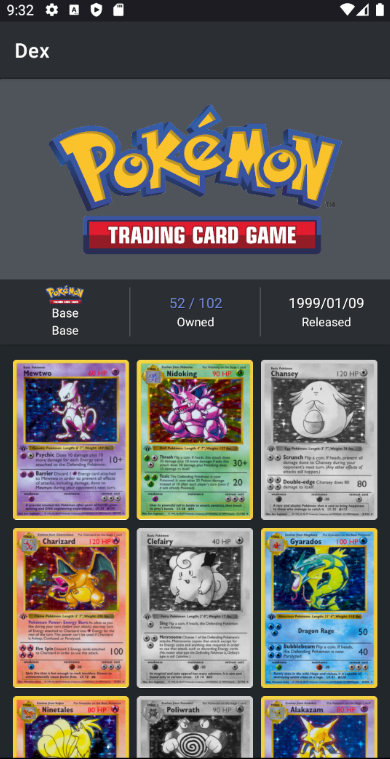
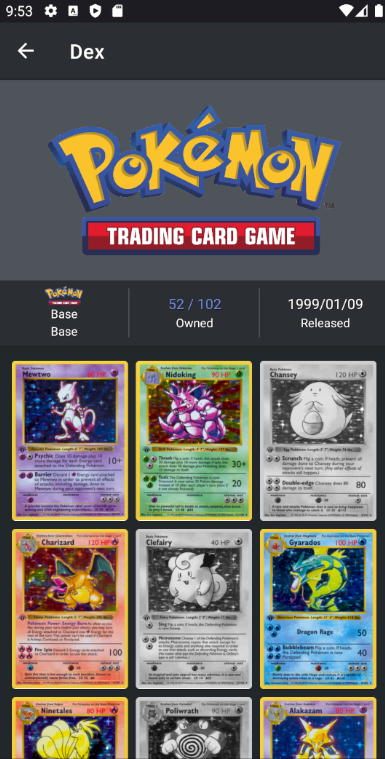
Added backward navigation button

diff --git a/app/src/main/java/android/example/dex/ui/activities/CardDetailActivity.java b/app/src/main/java/android/example/dex/ui/activities/CardDetailActivity.java
@@ -1,7 +1,9 @@
 package android.example.dex.ui.activities;
 
+import androidx.annotation.NonNull;
 import androidx.appcompat.app.AppCompatActivity;
 import androidx.cardview.widget.CardView;
+import androidx.core.app.NavUtils;
 import androidx.lifecycle.LiveData;
 
 import android.content.Intent;
@@ -15,6 +17,7 @@ import android.example.dex.viewmodel.WishViewModel;
 import android.net.Uri;
 import android.os.Bundle;
 import android.util.Log;
+import android.view.MenuItem;
 import android.view.View;
 import android.widget.Button;
 import android.widget.ImageButton;
@@ -55,6 +58,8 @@ public class CardDetailActivity extends AppCompatActivity {
     protected void onCreate(Bundle savedInstanceState) {
         super.onCreate(savedInstanceState);
         setContentView(R.layout.activity_card_detail);
+        // Back button
+        getSupportActionBar().setDisplayHomeAsUpEnabled(true);
 
 //        mCollectionViewModel = new ViewModelProvider(this).get(CollectionViewModel.class);
         mCollectionViewModel = MainActivity.mCollectionViewModel;
@@ -130,5 +135,16 @@ public class CardDetailActivity extends AppCompatActivity {
             Log.d("ImplicitIntents", "Can't handle this!");
         }
         Toast.makeText(this, "Clicked", Toast.LENGTH_SHORT).show();
+    }
+
+    @Override
+    public boolean onOptionsItemSelected(@NonNull MenuItem item) {
+        switch (item.getItemId()) {
+            case android.R.id.home:
+                NavUtils.navigateUpFromSameTask(this);
+                return true;
+            default:
+                return super.onOptionsItemSelected(item);
+        }
     }
 }

diff --git a/app/src/main/java/android/example/dex/ui/activities/SetDetailActivity.java b/app/src/main/java/android/example/dex/ui/activities/SetDetailActivity.java
@@ -1,6 +1,8 @@
 package android.example.dex.ui.activities;
 
+import androidx.annotation.NonNull;
 import androidx.appcompat.app.AppCompatActivity;
+import androidx.core.app.NavUtils;
 import androidx.lifecycle.LifecycleOwner;
 import androidx.lifecycle.LiveData;
 import androidx.lifecycle.Observer;
@@ -17,6 +19,7 @@ import android.example.dex.db.entity.set.PokeSet;
 import android.example.dex.ui.adapters.SearchAdapter;
 import android.example.dex.viewmodel.SearchViewModel;
 import android.os.Bundle;
+import android.view.MenuItem;
 import android.widget.ImageView;
 import android.widget.TextView;
 
@@ -47,6 +50,8 @@ public class SetDetailActivity extends AppCompatActivity{
     protected void onCreate(Bundle savedInstanceState) {
         super.onCreate(savedInstanceState);
         setContentView(R.layout.activity_set_detail);
+        // Back button
+        getSupportActionBar().setDisplayHomeAsUpEnabled(true);
 
         RecyclerView rvPokemons = findViewById(R.id.rvPokemons);
         final SearchAdapter adapter = new SearchAdapter(new SearchAdapter.WordDiff());
@@ -82,4 +87,14 @@ public class SetDetailActivity extends AppCompatActivity{
         });
     }
 
+    @Override
+    public boolean onOptionsItemSelected(@NonNull MenuItem item) {
+        switch (item.getItemId()) {
+            case android.R.id.home:
+                NavUtils.navigateUpFromSameTask(this);
+                return true;
+            default:
+                return super.onOptionsItemSelected(item);
+        }
+    }
 }

diff --git a/app/src/main/java/android/example/dex/db/dao/CollectionDao.java b/app/src/main/java/android/example/dex/db/dao/CollectionDao.java
@@ -15,6 +15,9 @@ import androidx.room.Update;
 
 import java.util.List;
 
+// SQLite does not have a separate Boolean storage class.
+// Instead, Boolean values are stored as integers 0 (false) and 1 (true).
+
 @Dao
 public interface CollectionDao {
 
@@ -24,8 +27,6 @@ public interface CollectionDao {
     @Query("SELECT * FROM pokemon_table")
     LiveData<List<Pokemon>> getAllPokemons();
 
-    // SQLite does not have a separate Boolean storage class.
-    // Instead, Boolean values are stored as integers 0 (false) and 1 (true).
     @Query("SELECT * FROM pokemon_table WHERE isOwned = 1 ORDER BY name ASC ")
     LiveData<List<Pokemon>> getOwnedPokemons();
 
